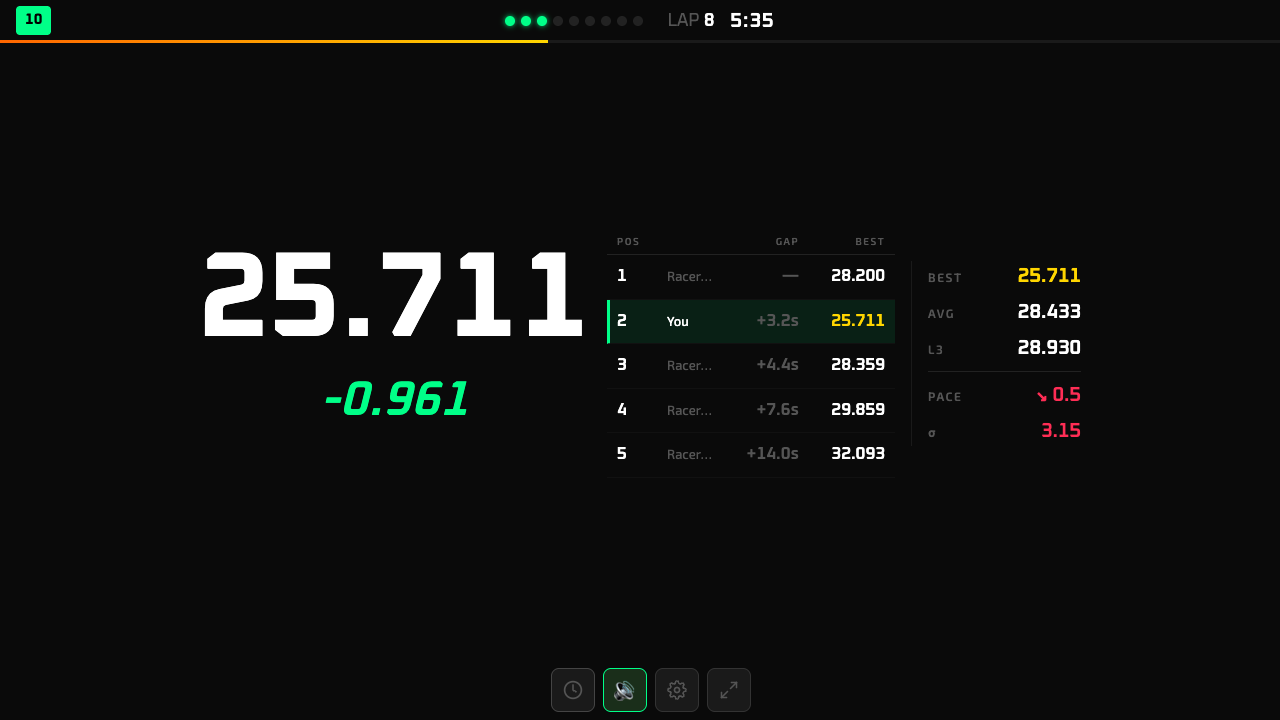
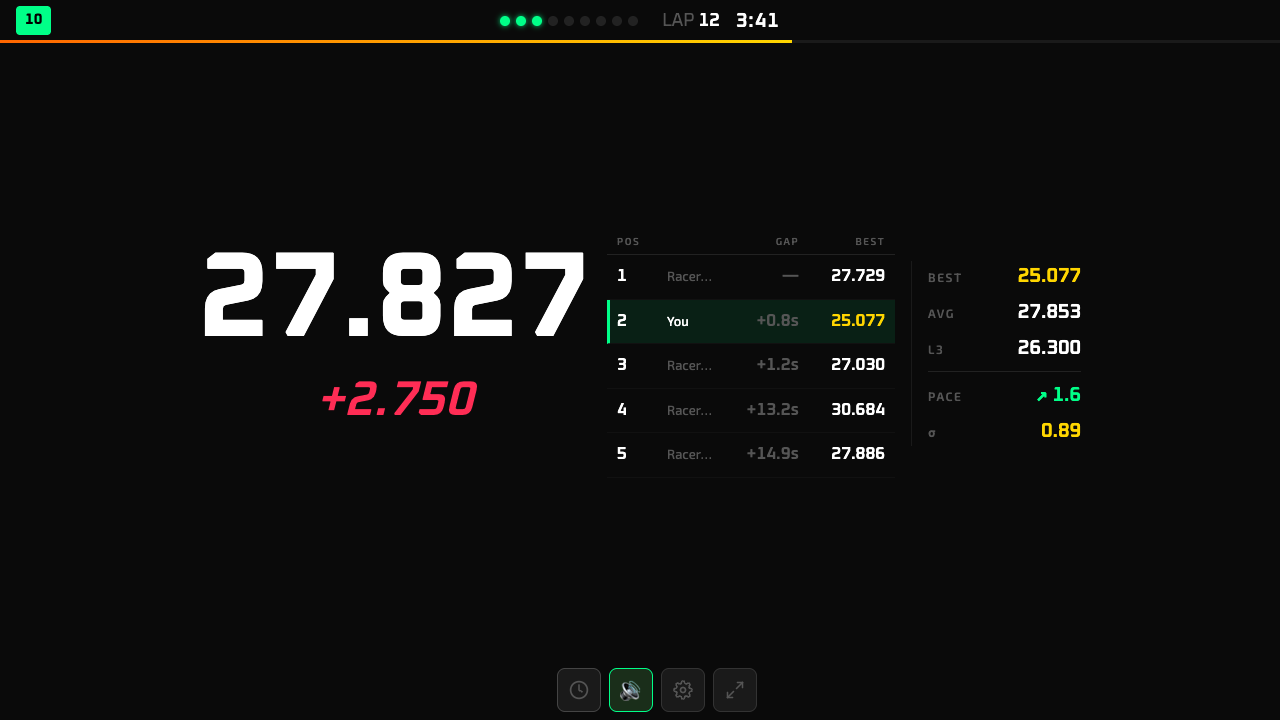
Flag overlay flash, v7 bump, README update
- Flag overlay shows for 5s then fades to dots + text label in top bar
- Flag text uses matching colors (gold/blue/red/white)
- Bump all versions to v7
- README: describe Time Attack and Race modes, add features list
- Update screenshots without flag overlays

diff --git a/index.html b/index.html
@@ -110,7 +110,7 @@
       </div>
       <div class="top-info">
         <span class="lap-counter" x-show="race.myLaps > 0"><span x-text="t('lap')"></span> <b x-text="race.myLaps"></b></span>
-        <span class="flag-label" x-show="race.flag !== 'Green'" x-text="race.flag.toUpperCase()" :class="'flag-text-' + race.flag.toLowerCase()"></span>
+        <span class="flag-label" x-show="race.flagMessage" x-text="race.flagMessage" :class="'flag-text-' + race.flag.toLowerCase()"></span>
         <span class="time-remain" x-text="formatTime(race.timeToGo)"></span>
       </div>
     </div>
@@ -284,7 +284,7 @@
   <script src="vendor/bootstrap.bundle.min.js"></script>
   <script src="js/i18n.js"></script>
   <script src="js/signalr-lite.js"></script>
-  <script src="js/app.v6.js"></script>
+  <script src="js/app.v7.js"></script>
   <script src="vendor/alpine.min.js" defer></script>
 </body>
 </html>

diff --git a/js/app.v7.js b/js/app.v7.js
@@ -619,12 +619,15 @@ document.addEventListener('alpine:init', () => {
         setTimeout(() => { this.race.isPersonalBest = false; }, 5000);
       }
 
-      // Reset flag after timeout (Finish persists, Red clears after 12s, others 8s)
+      // Hide overlay after 5s, but keep flag status in dots + label
+      if (flag && flag !== 'Green') {
+        setTimeout(() => { this.race.showFlagOverlay = false; }, 5000);
+      }
+      // Reset flag entirely after longer delay (Finish persists)
       if (flag && flag !== 'Green' && flag !== 'Finish') {
-        const delay = flag === 'Red' ? 12000 : 8000;
+        const delay = flag === 'Red' ? 15000 : 10000;
         setTimeout(() => {
           this.race.flag = 'Green';
-          this.race.showFlagOverlay = false;
           this.race.flagMessage = '';
           this.race.flagType = '';
         }, delay);

diff --git a/css/style.css b/css/style.css
@@ -291,10 +291,11 @@ body.flash-gold { animation: flashGold 0.8s ease-out; }
 .lap-counter { color: var(--text-dim); }
 .lap-counter b { color: var(--text); font-weight: 600; }
 
-.flag-label { font-weight: 700; letter-spacing: 2px; }
+.flag-label { font-weight: 700; letter-spacing: 1px; font-size: 13px; }
 .flag-text-yellow { color: var(--gold); }
 .flag-text-blue { color: var(--blue); }
 .flag-text-red { color: var(--red); }
+.flag-text-finish { color: #fff; }
 
 .time-remain {
   color: var(--text);

diff --git a/sw.js b/sw.js
@@ -1,9 +1,9 @@
-const CACHE = 'kart-display-v6';
+const CACHE = 'kart-display-v7';
 const ASSETS = [
   '/',
   '/index.html',
   '/css/style.css',
-  '/js/app.v6.js',
+  '/js/app.v7.js',
   '/js/i18n.js',
   '/js/signalr-lite.js',
   '/vendor/alpine.min.js',

diff --git a/README.md b/README.md
@@ -6,15 +6,19 @@ Shows lap times, position, best lap, gap to leader, and other race data directly
 
 Supports English, Russian, and Thai.
 
-## Screenshots
+## Display Modes
 
-### Time Attack Mode
+### Time Attack
+
+Personal performance focus — large lap time with delta, stats panel (best, average, last 3, pace trend, consistency), and a mini lap chart showing the last 5 laps color-coded by quality.
 
 | Landscape | Portrait |
 |-----------|----------|
 | ![TA Landscape](screenshots/ta-landscape.png) | ![TA Portrait](screenshots/ta-portrait.png) |
 
-### Race Mode
+### Race
+
+Competitive mode — lap time with delta on the left, a live leaderboard in the center showing 5 drivers around your position, and stats on the right. Positions and gaps update in real time.
 
 | Landscape | Portrait |
 |-----------|----------|
@@ -25,6 +29,15 @@ Supports English, Russian, and Thai.
 | Landscape | Portrait |
 |-----------|----------|
 | ![Settings Landscape](screenshots/settings-landscape.png) | ![Settings Portrait](screenshots/settings-portrait.png) |
+
+## Features
+
+- Auto-detect kart by driver name (no manual kart selection)
+- Voice announcements (lap time, best lap, position)
+- Flag overlays from RaceMann race control (yellow, blue, red, finish)
+- Haptic feedback on personal best
+- Wake Lock (screen stays on)
+- Installable as PWA
 
 ## License
 
